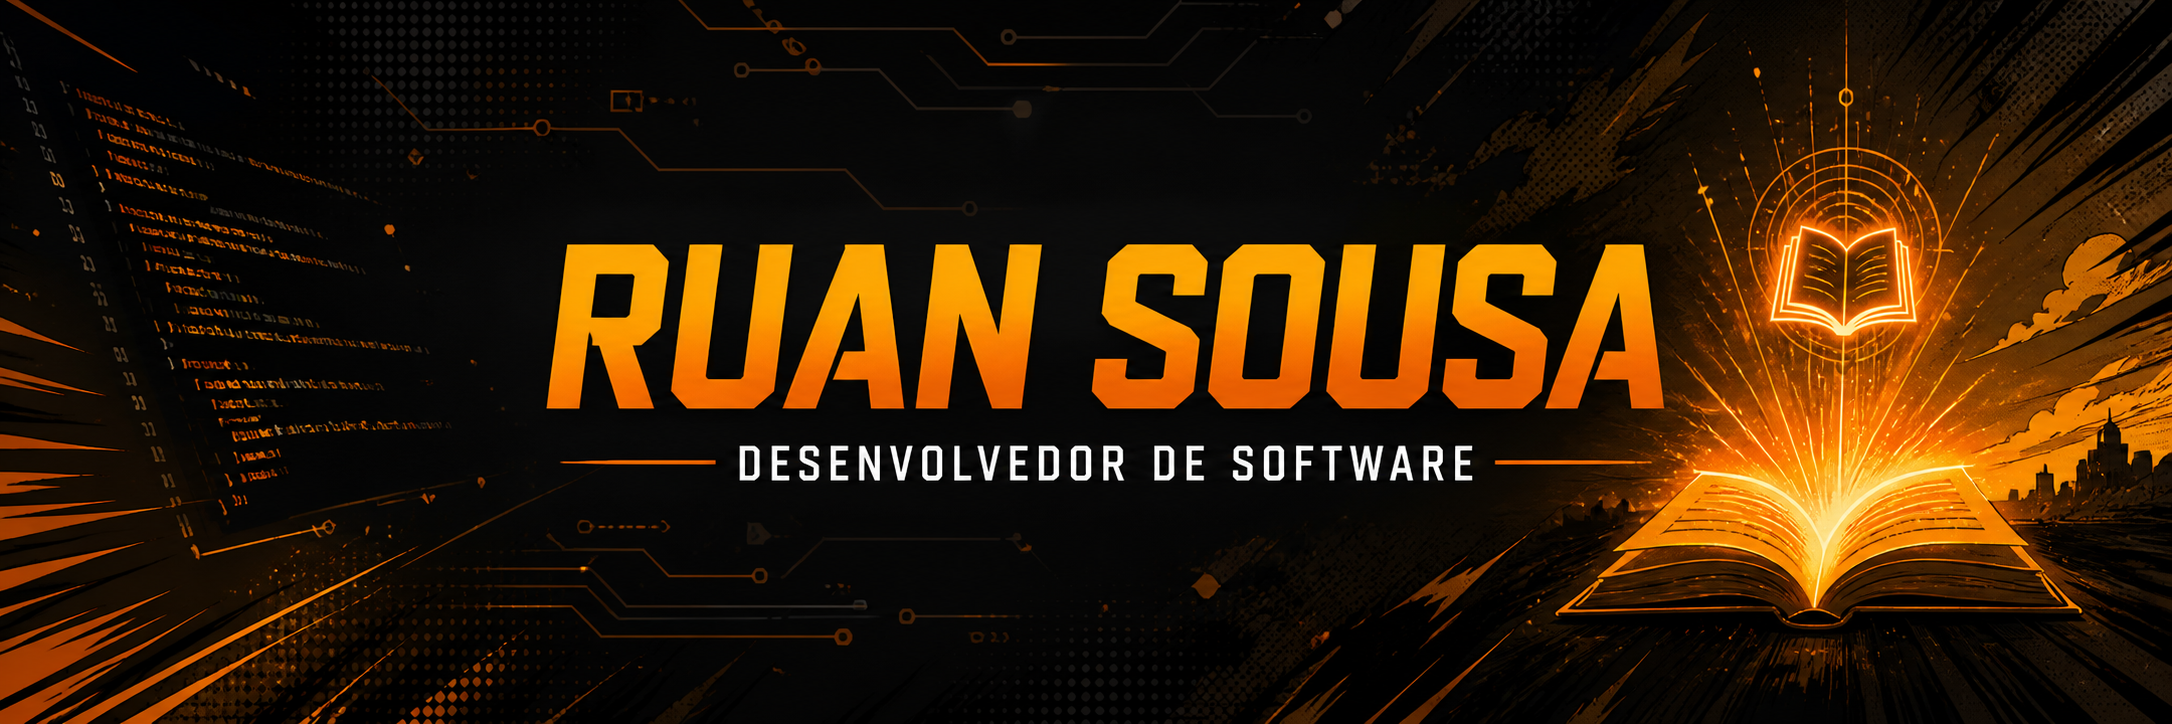
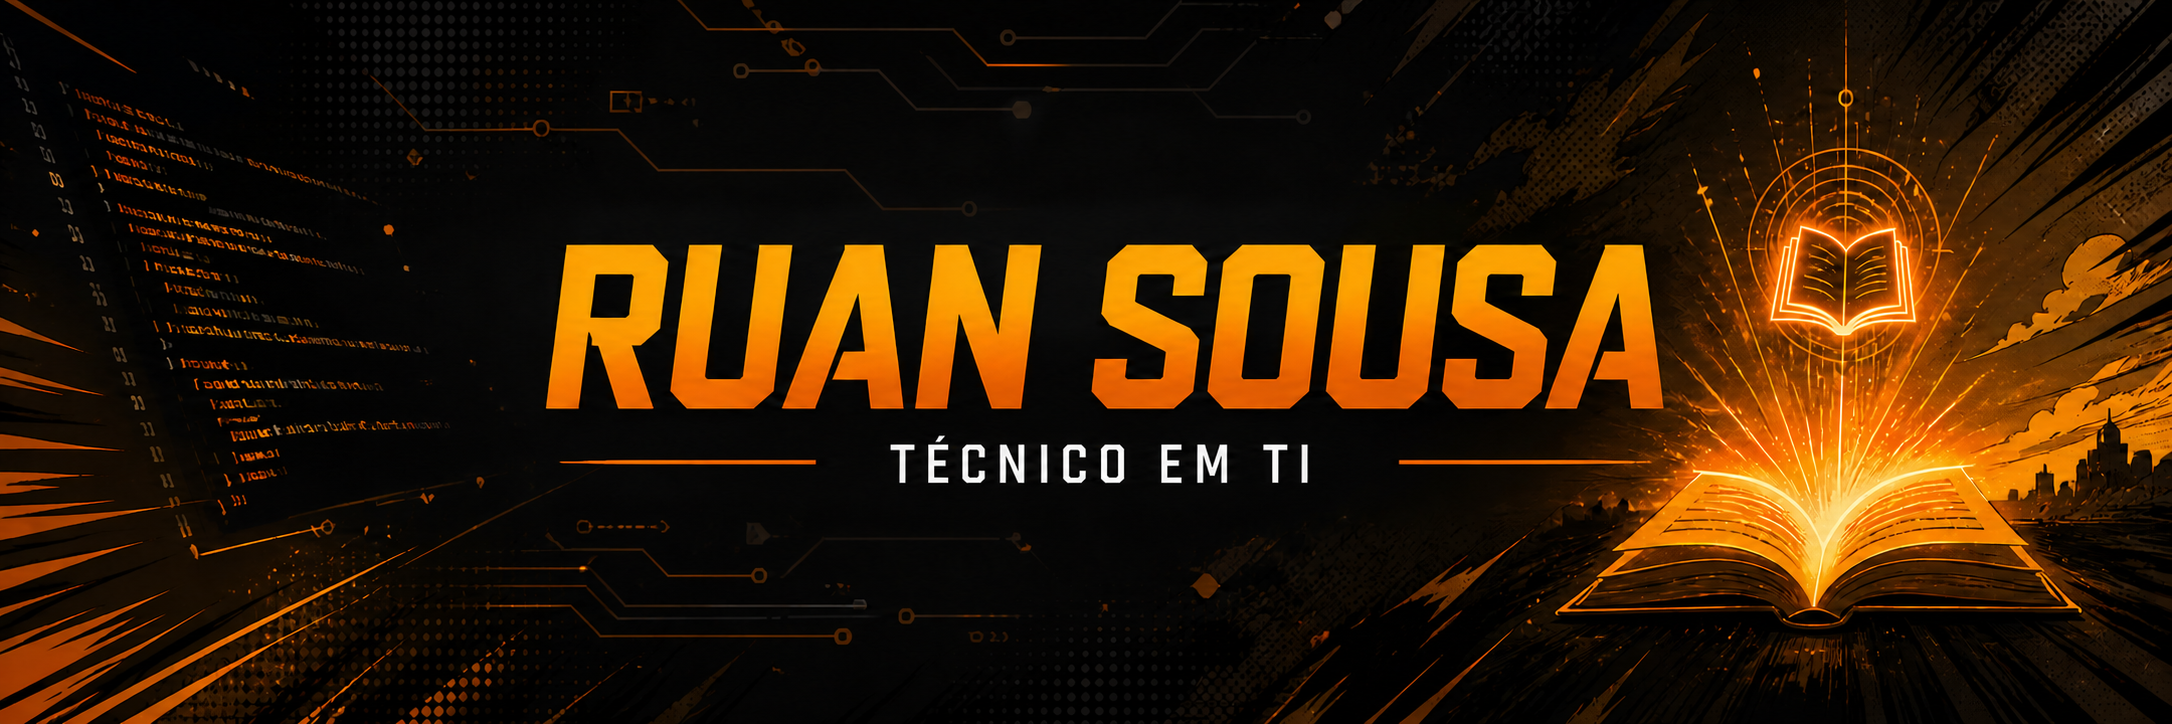
Ajusta apresentação profissional

diff --git a/README.md b/README.md
@@ -1,11 +1,11 @@
 <p align="center">
-  <img src="assets/banner.png" alt="Ruan Sousa — Desenvolvedor de Software" width="100%">
+  <img src="assets/banner.png" alt="Ruan Sousa — Técnico em TI" width="100%">
 </p>
 
 <h1 align="center">Olá, eu sou o Ruan! 👋</h1>
 
 <p align="center">
-  Desenvolvedor de software e Técnico em TI, transformando ideias em sistemas web e desktop.
+  Técnico em TI e estudante de tecnologia, colocando o aprendizado em prática por meio de projetos web e desktop.
 </p>
 
 ## Sobre mim
@@ -59,4 +59,3 @@ Atualmente, continuo aprofundando meus conhecimentos em:
 <p align="center">
   <a href="https://github.com/kouran1">Conheça meus repositórios</a>
 </p>
-
